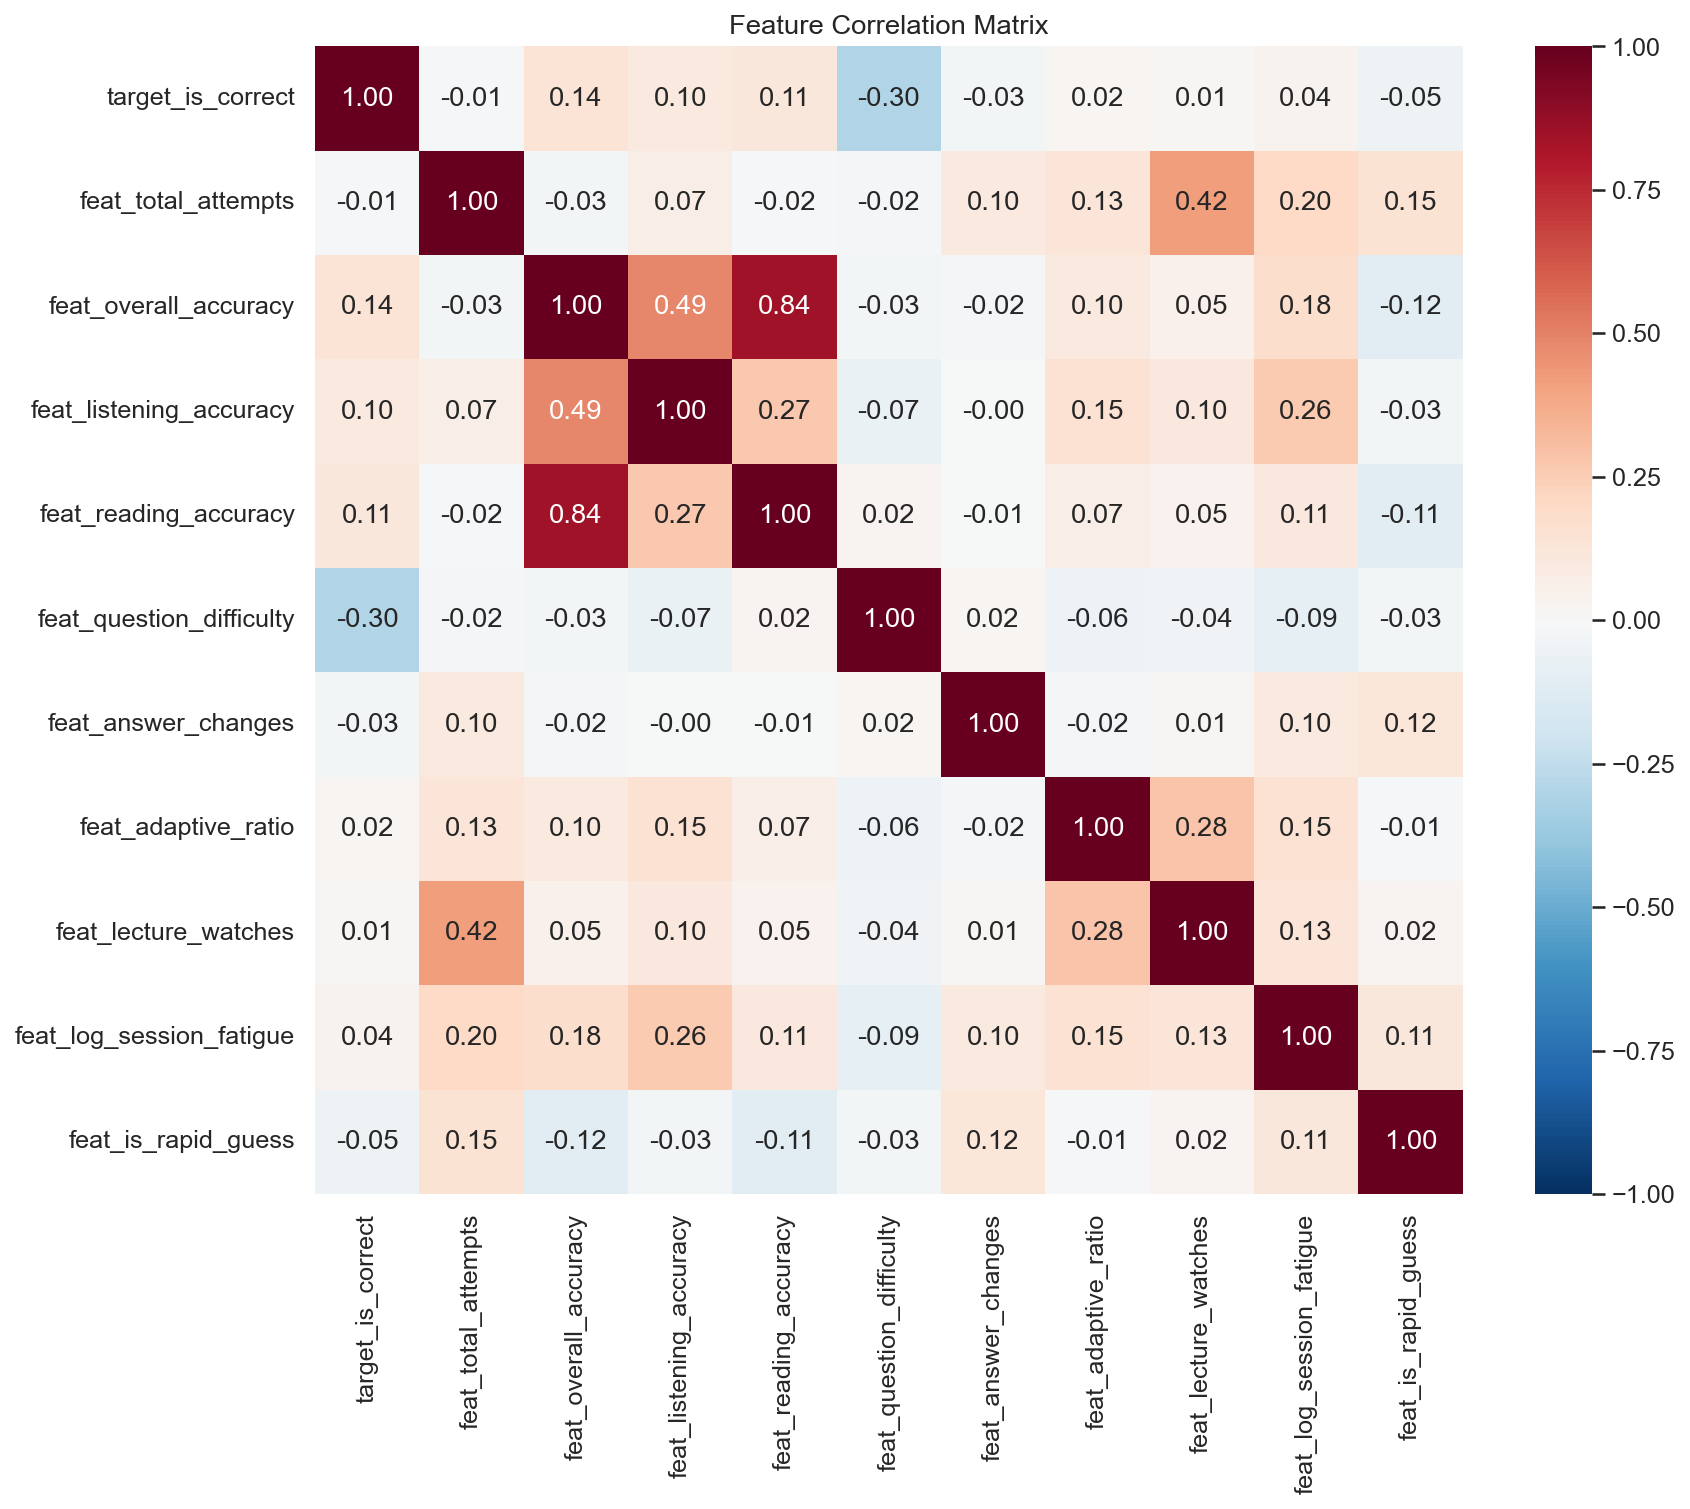
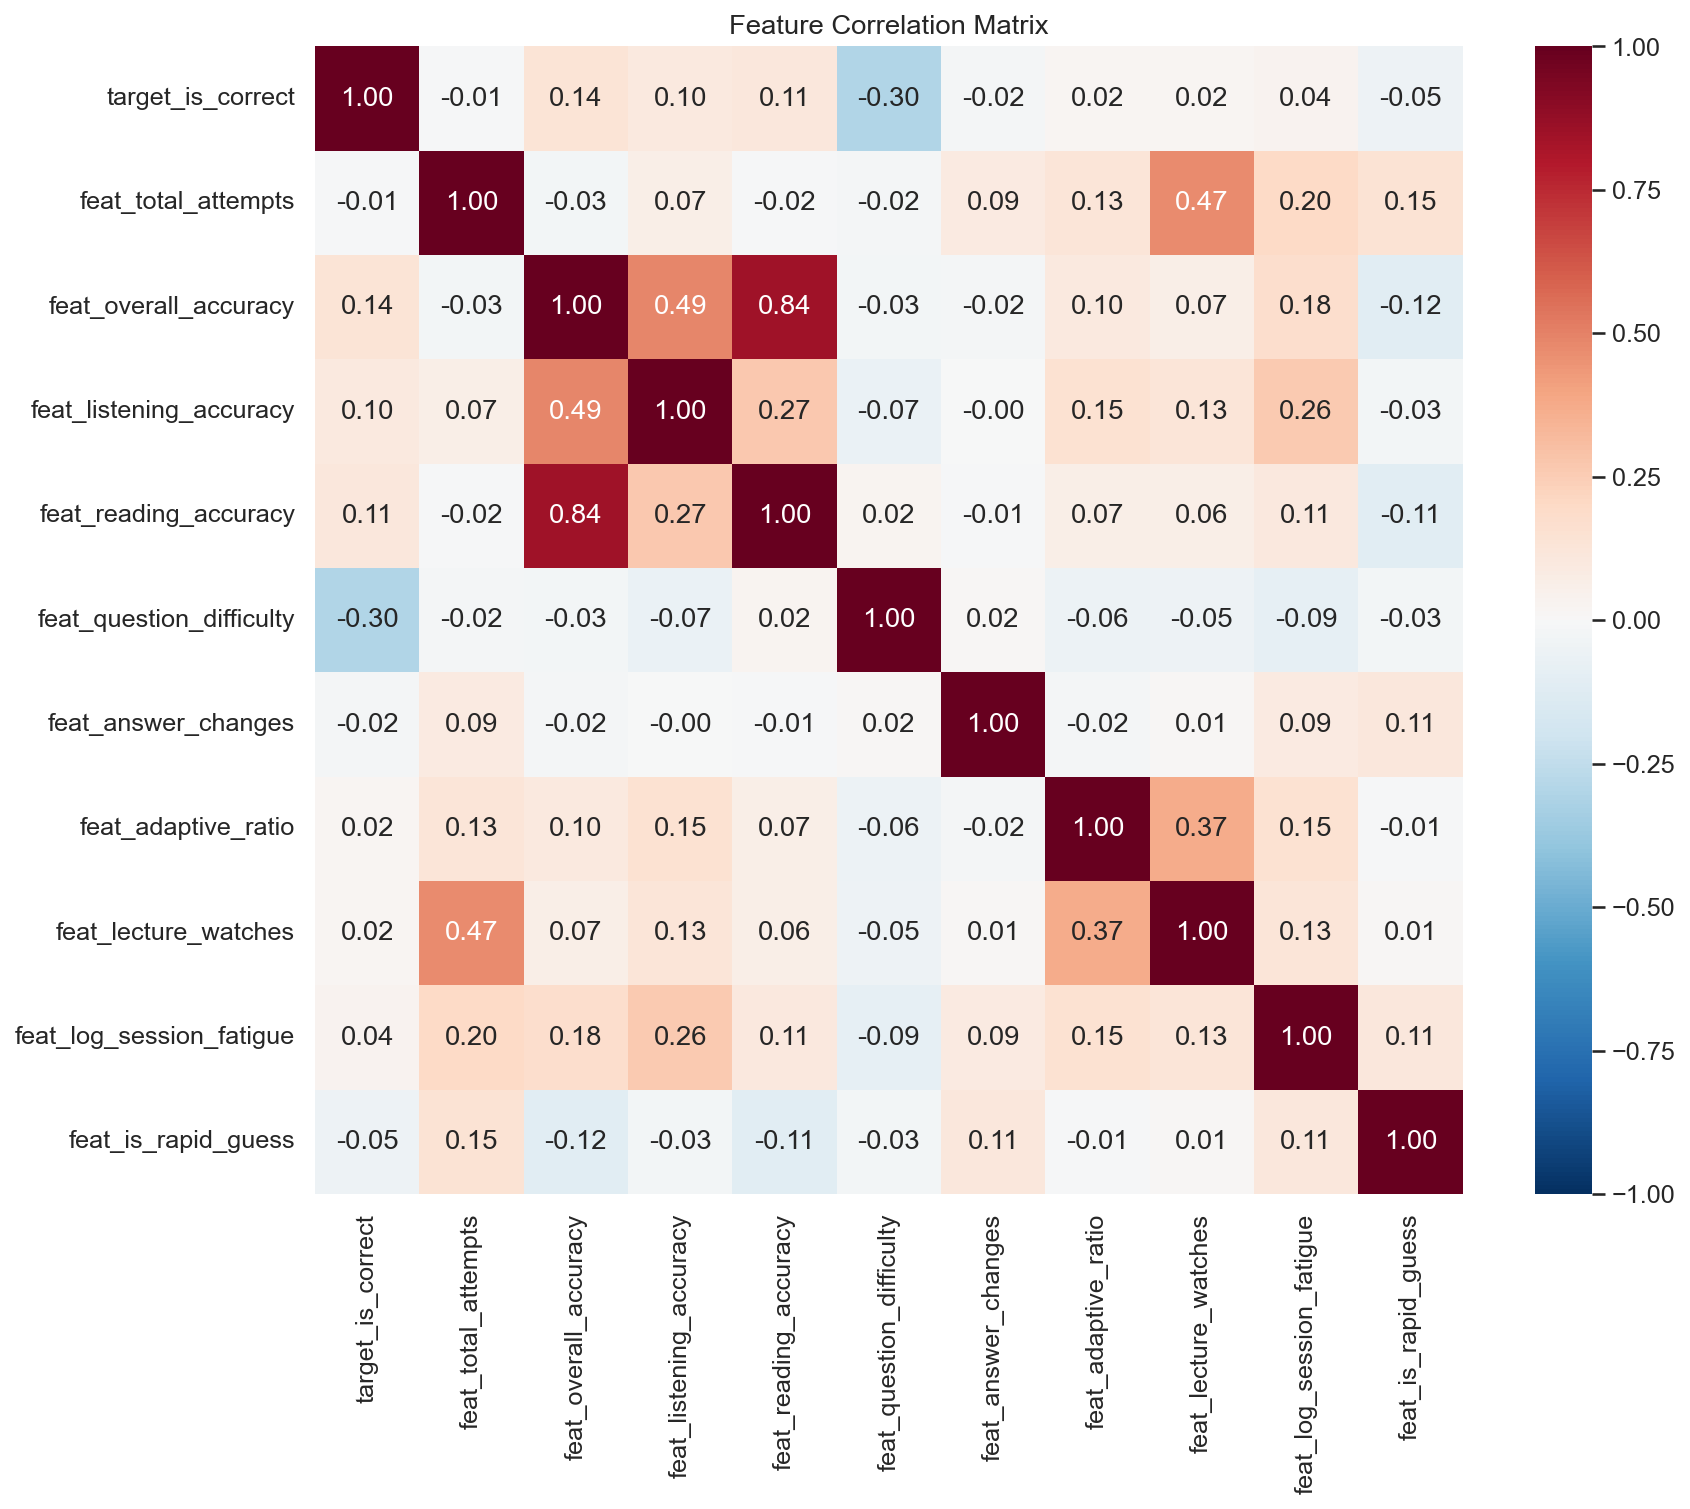
Fix temporal leakage in feat_lecture_watches and feat_answer_changes
- feat_lecture_watches: cumulative count up to timestamp t (was static lifetime)
- feat_answer_changes: cumulative per (user, question) over time (was total across all time)
- Update script, report, and plots

diff --git a/feature_engineering/generate_features.py b/feature_engineering/generate_features.py
@@ -148,15 +148,15 @@ def main():
     log("BEHAVIORAL SIGNALS")
     log("=" * 50)
 
-    # feat_answer_changes: number of times student changed answer on this question
-    # Computed from ALL respond actions per (user, item_id), not just the final one
-    all_responds = df[df["action_type"] == "respond"]
-    respond_counts = all_responds.groupby(["user_id", "item_id"]).size().reset_index(name="n_responds")
-    responds = responds.merge(respond_counts, on=["user_id", "item_id"], how="left")
-    responds["feat_answer_changes"] = (responds["n_responds"].fillna(1) - 1).astype(np.int16)
-    responds = responds.drop(columns=["n_responds"])
+    # feat_answer_changes: cumulative count of prior respond actions on the same
+    # question by the same user (temporal ordering, no future leakage)
+    responds = responds.sort_values(["user_id", "item_id", "timestamp"])
+    responds["feat_answer_changes"] = responds.groupby(
+        ["user_id", "item_id"]
+    ).cumcount().astype(np.int16)
+    responds = responds.sort_values(["user_id", "timestamp"]).reset_index(drop=True)
     log(f"  feat_answer_changes: {(responds['feat_answer_changes'] > 0).mean()*100:.1f}% "
-        f"of responses have >= 1 change")
+        f"of responses have >= 1 prior attempt")
 
     # feat_is_rapid_guess: response faster than P10 of time_since_prev
     p10_threshold = responds["time_since_prev"].dropna().quantile(0.10)
@@ -185,28 +185,25 @@ def main():
     log("ENGAGEMENT & FATIGUE")
     log("=" * 50)
 
-    # feat_lecture_watches: cumulative count of lecture items consumed up to t-1
+    # feat_lecture_watches: cumulative count of lectures consumed before each respond
+    # Uses binary search on sorted per-user lecture timestamps (no future leakage)
     lecture_actions = df[(df["action_type"] == "enter") & (df["item_type"] == "lecture")]
-    lecture_counts = lecture_actions.groupby("user_id").size().rename("total_lectures")
+    lecture_ts = lecture_actions[["user_id", "timestamp"]].sort_values(["user_id", "timestamp"])
+    user_lec_ts = lecture_ts.groupby("user_id")["timestamp"].apply(np.array).to_dict()
 
-    # For each respond, count lectures consumed before that timestamp
-    # Approximation: use cumulative lecture count at each timestamp
-    lecture_ts = lecture_actions[["user_id", "timestamp"]].copy()
-    lecture_ts["lec_flag"] = 1
-    # Merge into responds and count lectures before each respond
-    merged = responds[["user_id", "timestamp"]].merge(
-        lecture_ts, on="user_id", how="left", suffixes=("", "_lec")
-    )
-    merged["before"] = (merged["timestamp_lec"] < merged["timestamp"]).astype(int) * merged["lec_flag"]
-    lec_before = merged.groupby(merged.index)["before"].sum()
+    respond_keys = responds[["user_id", "timestamp"]].values
+    lec_counts = np.zeros(len(responds), dtype=np.uint32)
+    for i in range(len(responds)):
+        uid = respond_keys[i, 0]
+        ts = respond_keys[i, 1]
+        lec_times = user_lec_ts.get(uid)
+        if lec_times is not None:
+            lec_counts[i] = np.searchsorted(lec_times, ts, side="left")
+        if (i + 1) % 5_000_000 == 0:
+            log(f"    {i + 1:,}/{len(responds):,}...")
 
-    # This approach is too memory-heavy for 23M rows. Use simpler cumulative approach.
-    del merged, lecture_ts, lec_before
-
-    # Simpler: per-user total lecture count (static feature, not temporal)
-    responds = responds.merge(lecture_counts, on="user_id", how="left")
-    responds["feat_lecture_watches"] = responds["total_lectures"].fillna(0).astype(np.uint32)
-    responds = responds.drop(columns=["total_lectures"])
+    responds["feat_lecture_watches"] = lec_counts
+    del lecture_ts, user_lec_ts, lec_counts
     log(f"  feat_lecture_watches: mean={responds['feat_lecture_watches'].mean():.1f}, "
         f"max={responds['feat_lecture_watches'].max():,}")
 

diff --git a/output/feature_engineering/reports/feature_engineering.md b/output/feature_engineering/reports/feature_engineering.md
@@ -38,9 +38,9 @@ First-row features for each user are explicitly set to 0 (no prior history avail
 | `feat_listening_accuracy` | +0.097 | Mastery | Student's cumulative accuracy on Parts 1-4 (listening section) up to t-1. |
 | `feat_is_rapid_guess` | -0.052 | Behavioral | Binary flag: 1 if the response was faster than P10 of response time (690ms), indicating possible guessing. |
 | `feat_log_session_fatigue` | +0.038 | Engagement | Log1p of the count of all actions within a 1-hour rolling window before this response. Proxy for cognitive load. |
-| `feat_answer_changes` | -0.030 | Behavioral | Number of times the student changed their answer on this specific question before submitting. Unique to KT4. |
+| `feat_answer_changes` | -0.023 | Behavioral | Cumulative count of prior respond actions on this same question by this student. Captures re-encounters and answer revision. Unique to KT4. |
 | `feat_adaptive_ratio` | +0.022 | Behavioral | Proportion of the student's prior attempts that came from the adaptive recommendation system (source=`adaptive_offer`). |
-| `feat_lecture_watches` | +0.011 | Engagement | Total number of lectures the student has consumed. |
+| `feat_lecture_watches` | +0.017 | Engagement | Cumulative count of lectures consumed by the student before this response. |
 | `feat_total_attempts` | -0.010 | Mastery | Cumulative count of the student's respond actions up to t-1. Provides confidence weighting for accuracy features. |
 
 ---
@@ -63,14 +63,14 @@ The listening vs reading split has a mutual correlation of only **0.27**, meanin
 
 ### 3. Behavioral Signals
 
-- **Answer changes** capture uncertainty. Students who change their answer have dramatically lower accuracy (0.44) compared to those who answer once (0.68).
+- **Answer changes** capture re-encounters and uncertainty. A value of 0 means this is the student's first attempt at this question; higher values indicate prior attempts or answer revisions.
 - **Rapid guessing** (responses under 690ms) flags likely random answers. These have ~9 percentage points lower accuracy.
 - **Adaptive ratio** measures how much the student relies on the AI recommendation system vs self-directed study.
 
 ### 4. Engagement & Fatigue
 
 - **Session fatigue** (log-transformed) counts all actions in the preceding hour. Higher values indicate extended study sessions where cognitive load may reduce performance.
-- **Lecture watches** captures how much supplementary content the student has consumed.
+- **Lecture watches** captures how many lectures the student has consumed up to this point in time.
 
 ---
 
@@ -83,7 +83,10 @@ The listening vs reading split has a mutual correlation of only **0.27**, meanin
 ### Quality Checks
 - Zero null values across all 15 columns
 - Zero users with non-zero accuracy at first response (leakage-free)
+- All cumulative features use only data from interactions before time *t* (no future leakage)
 - `feat_total_attempts` is monotonically increasing per user
+- `feat_lecture_watches` is cumulative per user over time (not static lifetime count)
+- `feat_answer_changes` is cumulative per (user, question) over time
 - `feat_is_rapid_guess` flags ~10% of responses
 - Listening vs reading accuracy mutual correlation = 0.27 (low redundancy)
 - Row count matches preprocessed respond actions: 23,308,702
